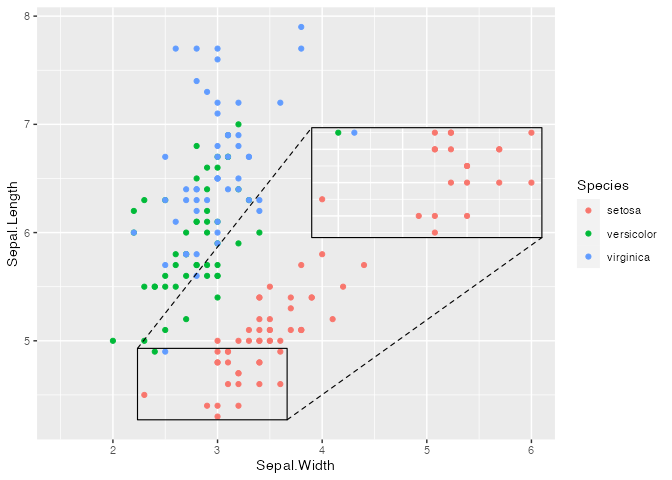
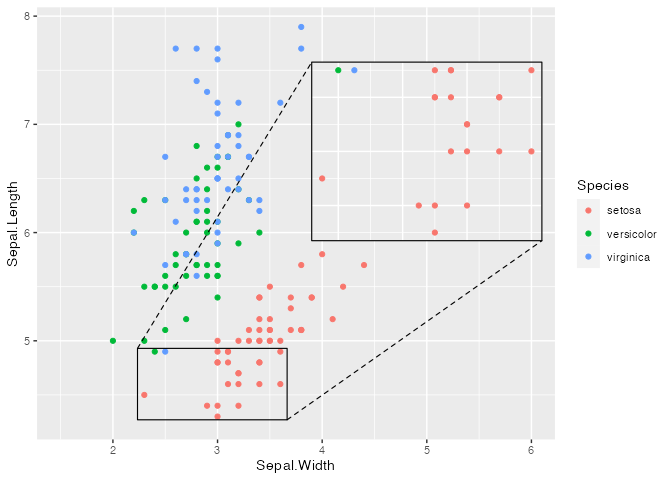
Tweak docs

diff --git a/README.md b/README.md
@@ -52,9 +52,8 @@ ggp + geom_magnify(from = from, to = to)
 loadNamespace("ggfx")
 #> <environment: namespace:ggfx>
 
-ggp + 
-  geom_magnify(from = from, to = to, 
-               shadow = TRUE)
+ggp + geom_magnify(from = from, to = to, 
+                   shadow = TRUE)
 ```
 
 <img src="man/figures/README-example-shadow-1.png" width="100%" />
@@ -65,9 +64,8 @@ This requires R 4.1 or higher, and an appropriate graphics device.
 
 ``` r
 
-ggp + 
-  geom_magnify(from = from, to = to, 
-               shape = "ellipse", shadow = TRUE)
+ggp + geom_magnify(from = from, to = to, 
+                   shape = "ellipse", shadow = TRUE)
 ```
 
 <img src="man/figures/README-example-ellipse-1.png" width="100%" />
@@ -81,7 +79,7 @@ ggpi <- ggplot(iris, aes(Sepal.Width, Sepal.Length, colour = Species)) +
               geom_point() + xlim(c(1.5, 6))
 
 ggpi + geom_magnify(aes(from = Species == "setosa" & Sepal.Length < 5), 
-                    to = c(4, 6, 6, 7.5), aspect = "fixed")
+                    to = c(4, 6, 6, 7.5))
 ```
 
 <img src="man/figures/README-example-logical-from-1.png" width="100%" />
@@ -92,7 +90,7 @@ ggpi + geom_magnify(aes(from = Species == "setosa" & Sepal.Length < 5),
 
 ggpi +
   facet_wrap(vars(Species)) +
-  geom_magnify(aes(from = Sepal.Length > 5 & Sepal.Length < 6.5 ), 
+  geom_magnify(aes(from = Sepal.Length > 5 & Sepal.Length < 6.5), 
                     to = c(4.5, 6, 6, 7.5),
                     shadow = TRUE)
 ```
@@ -140,8 +138,7 @@ Use a grob or data frame to magnify any shape:
 ``` r
 
 s <- seq(0, 2*pi, length = 7)
-hex <- grid::polygonGrob(x = 3 + sin(s)/2, y = 6 + cos(s)/2, 
-                         default.units = "native") 
+hex <- data.frame(x = 3 + sin(s)/2, y = 6 + cos(s)/2) 
 
 ggpi + geom_magnify(from = hex, 
                     to = c(4, 6, 5, 7), shadow = TRUE, aspect = "fixed")
